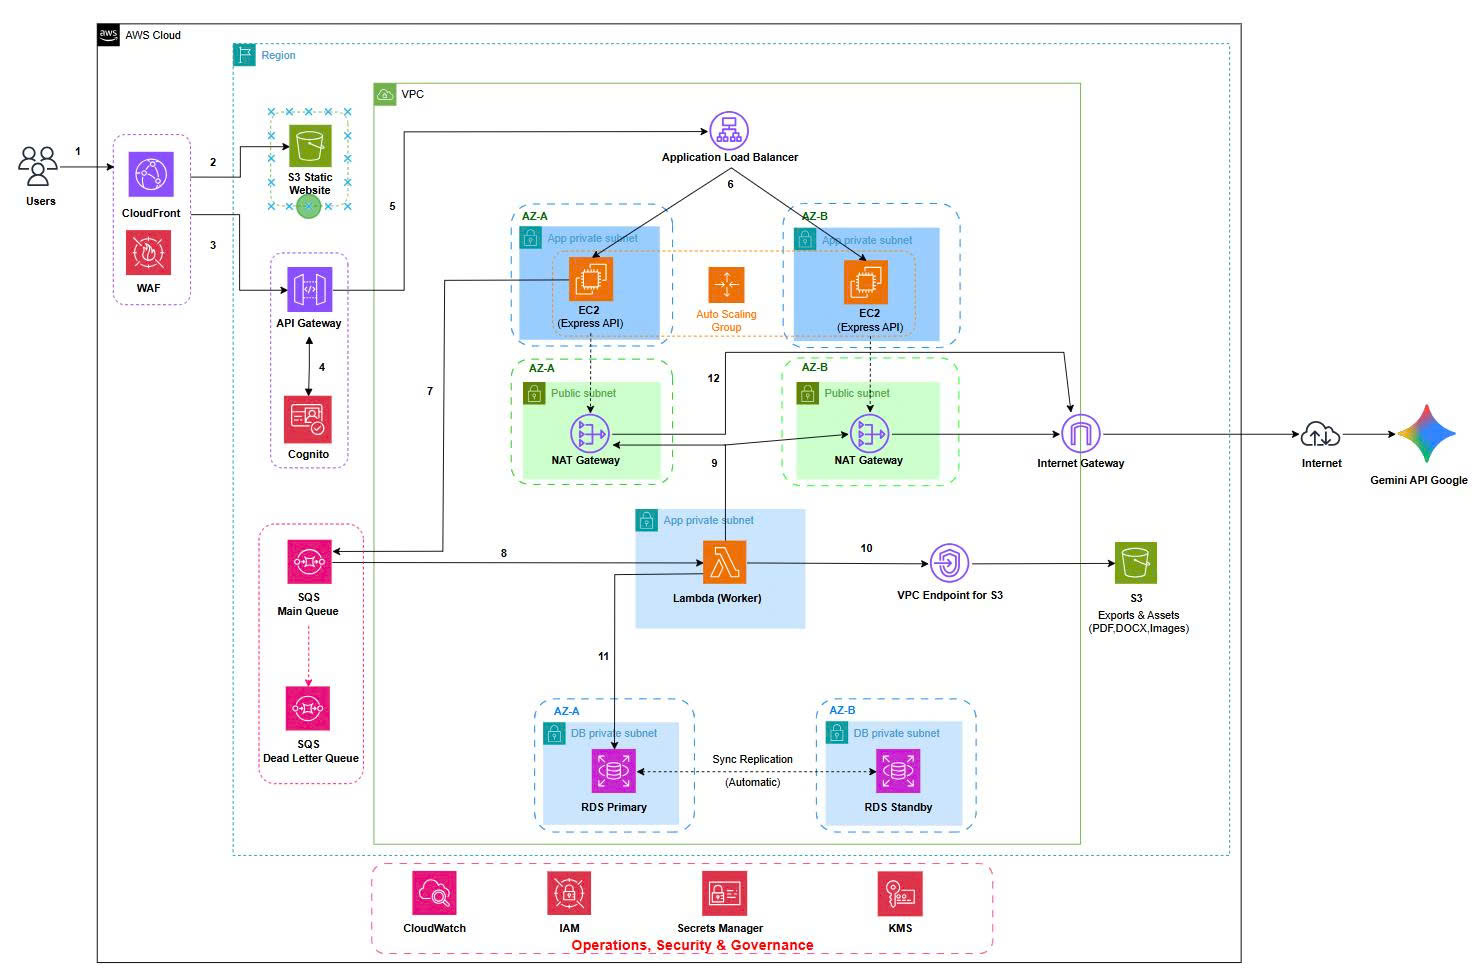
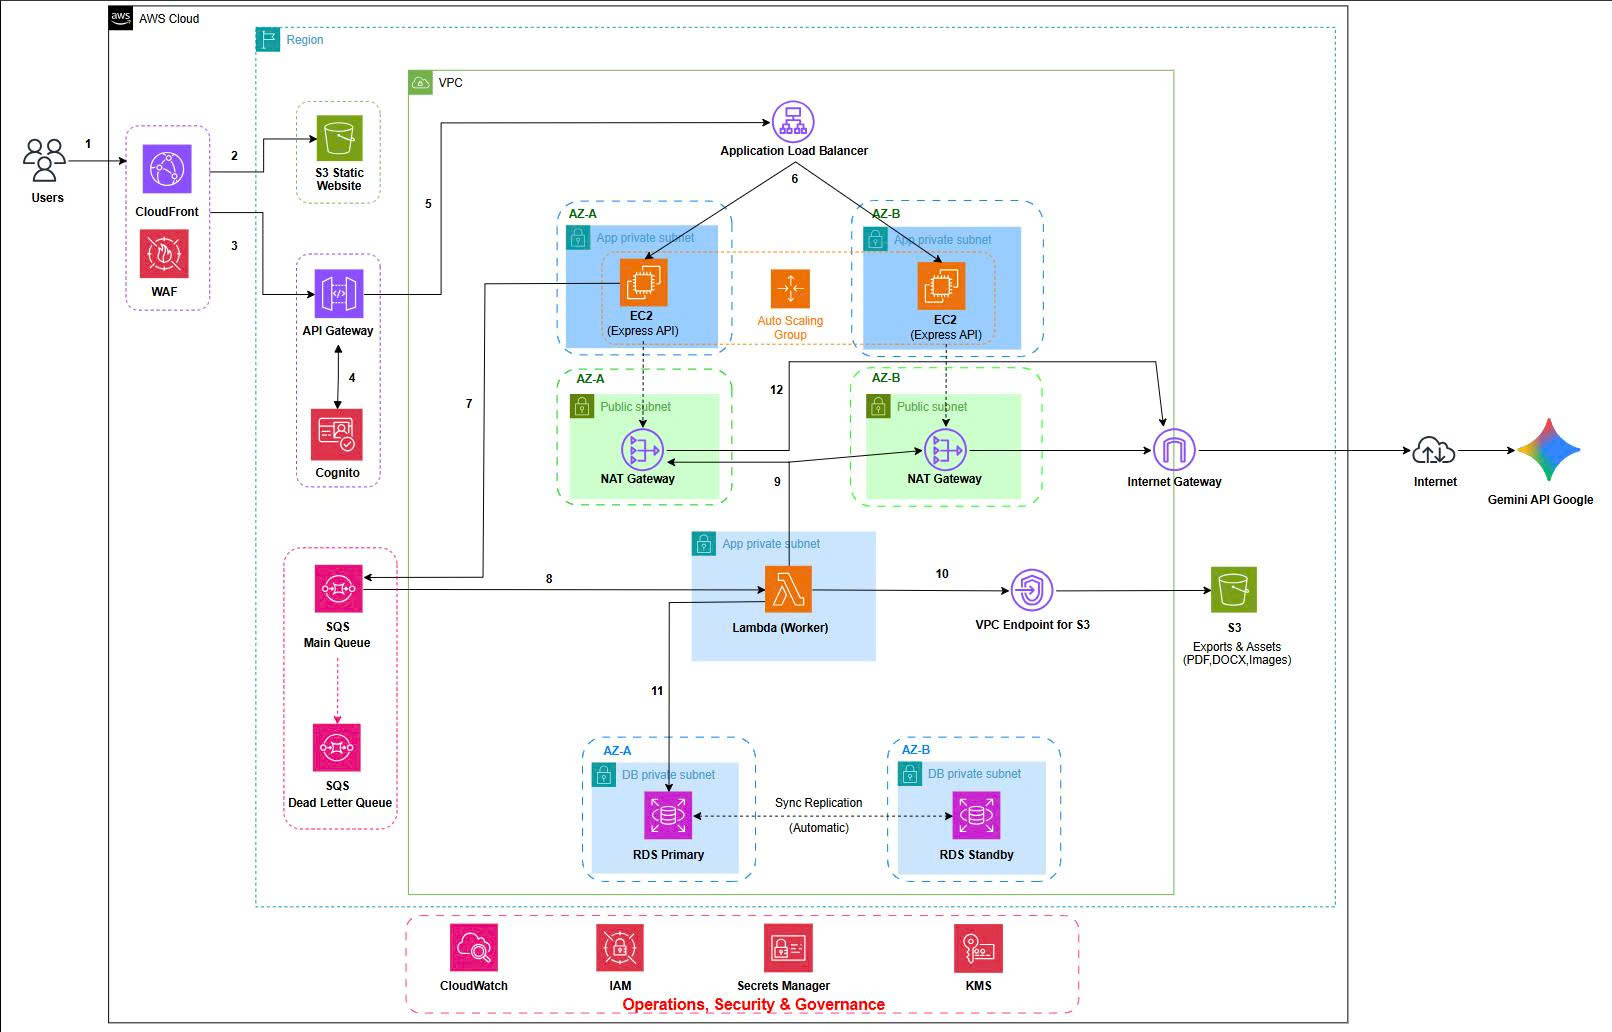
Update image paths to Raw GitHub URLs for better compatibility Final

Changed region(s): [[0.0, 0.0, 0.9933, 0.896], [0.0621, 0.7106, 0.8381, 1.0], [0.4035, 0.6488, 0.4345, 0.6797]]

diff --git a/content/2-Proposal/_index.md b/content/2-Proposal/_index.md
@@ -78,7 +78,7 @@ The popularity of LLMs and the ability to integrate via APIs open the opportunit
 
 The system is deployed on AWS with a multi-tier architecture, clearly separating the Edge, API, Compute, Queue, AI Worker, and Data layers. All computing resources are located within a **VPC (10.0.0.0/16)** spanning **2 Availability Zones**.
 
-> ![Architecture](/static/images/Architecture.png)
+![Architecture](https://raw.githubusercontent.com/nuocmamcacom/FCAJ-TaiPhan/main/static/images/Architecture.png)
 
 ### 4.2 Architecture Components
 